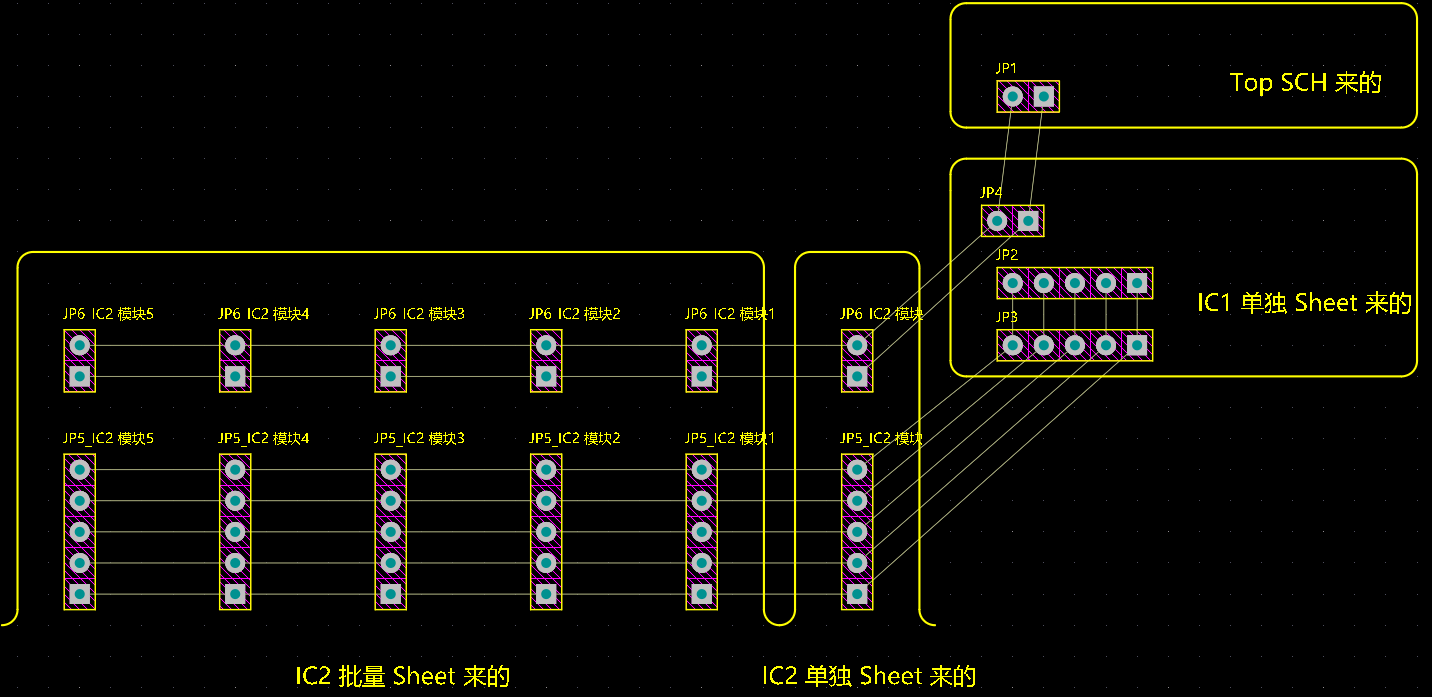
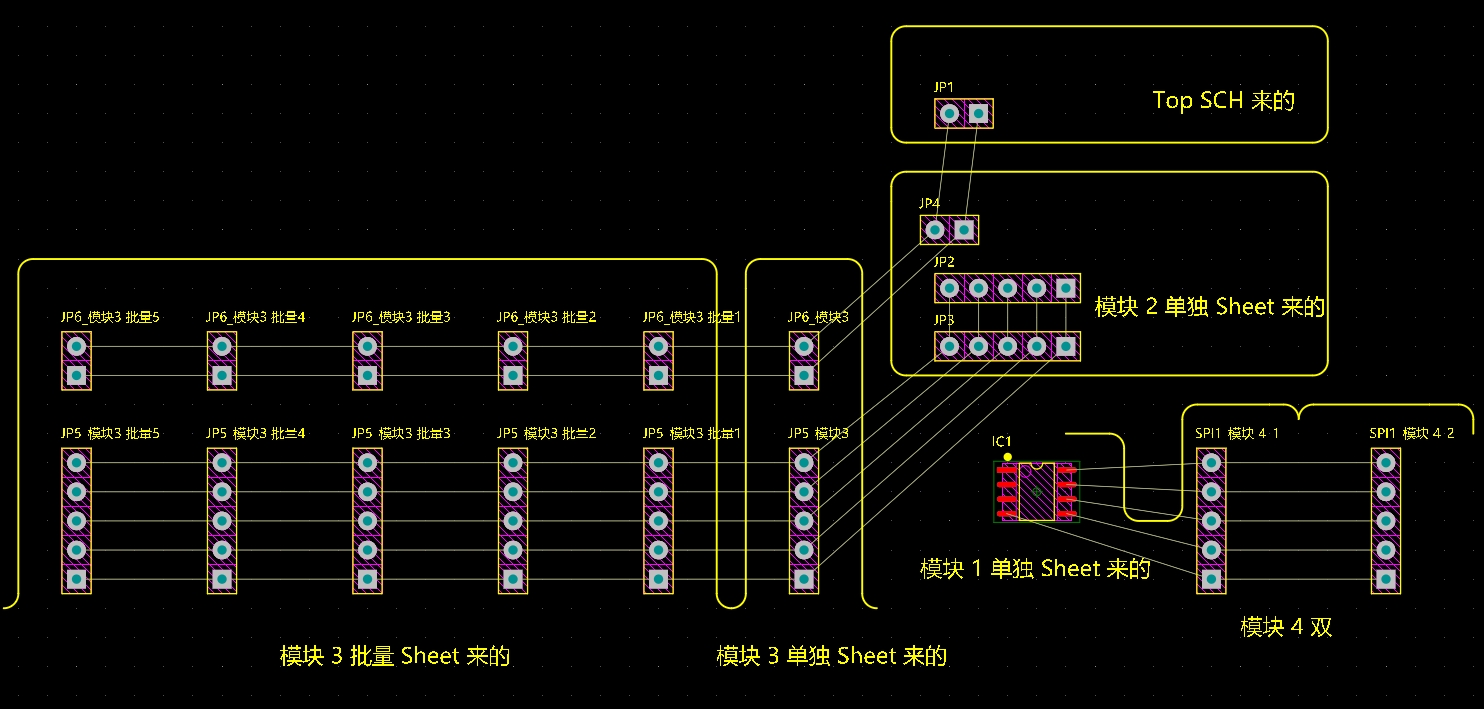
更新总线使用例子

diff --git a/SCH & PCB 设计规范和 AD 的使用.md b/SCH & PCB 设计规范和 AD 的使用.md
@@ -651,7 +651,7 @@ AD 的更多丰富技巧和高速布线：
 
 ### 总线连接
 
-看图自学。
+看图自学。以下原理图源文件在`\PCB LOGO-画法集合-PCB工具-规则文件\多层次原理图 总线连接 示例`里。
 
 Sheet 2 SCH 图：
 
@@ -660,6 +660,14 @@ Sheet 2 SCH 图：
 Sheet 3 SCH 图：
 
 <img src="assets/总线连接-Sheet3-SCH.png" alt="总线连接 Sheet3 SCH" style="zoom:50%;" />
+
+Sheet 1 SCH 图：
+
+<img src="assets/总线连接-Sheet1-SCH.png" alt="总线连接 Sheet1 SCH" style="zoom:50%;" />
+
+Sheet 4 SCH 图：
+
+<img src="assets/总线连接-Sheet4-SCH.png" alt="总线连接 Sheet4 SCH" style="zoom:50%;" />
 
 Top SCH 图：
 
